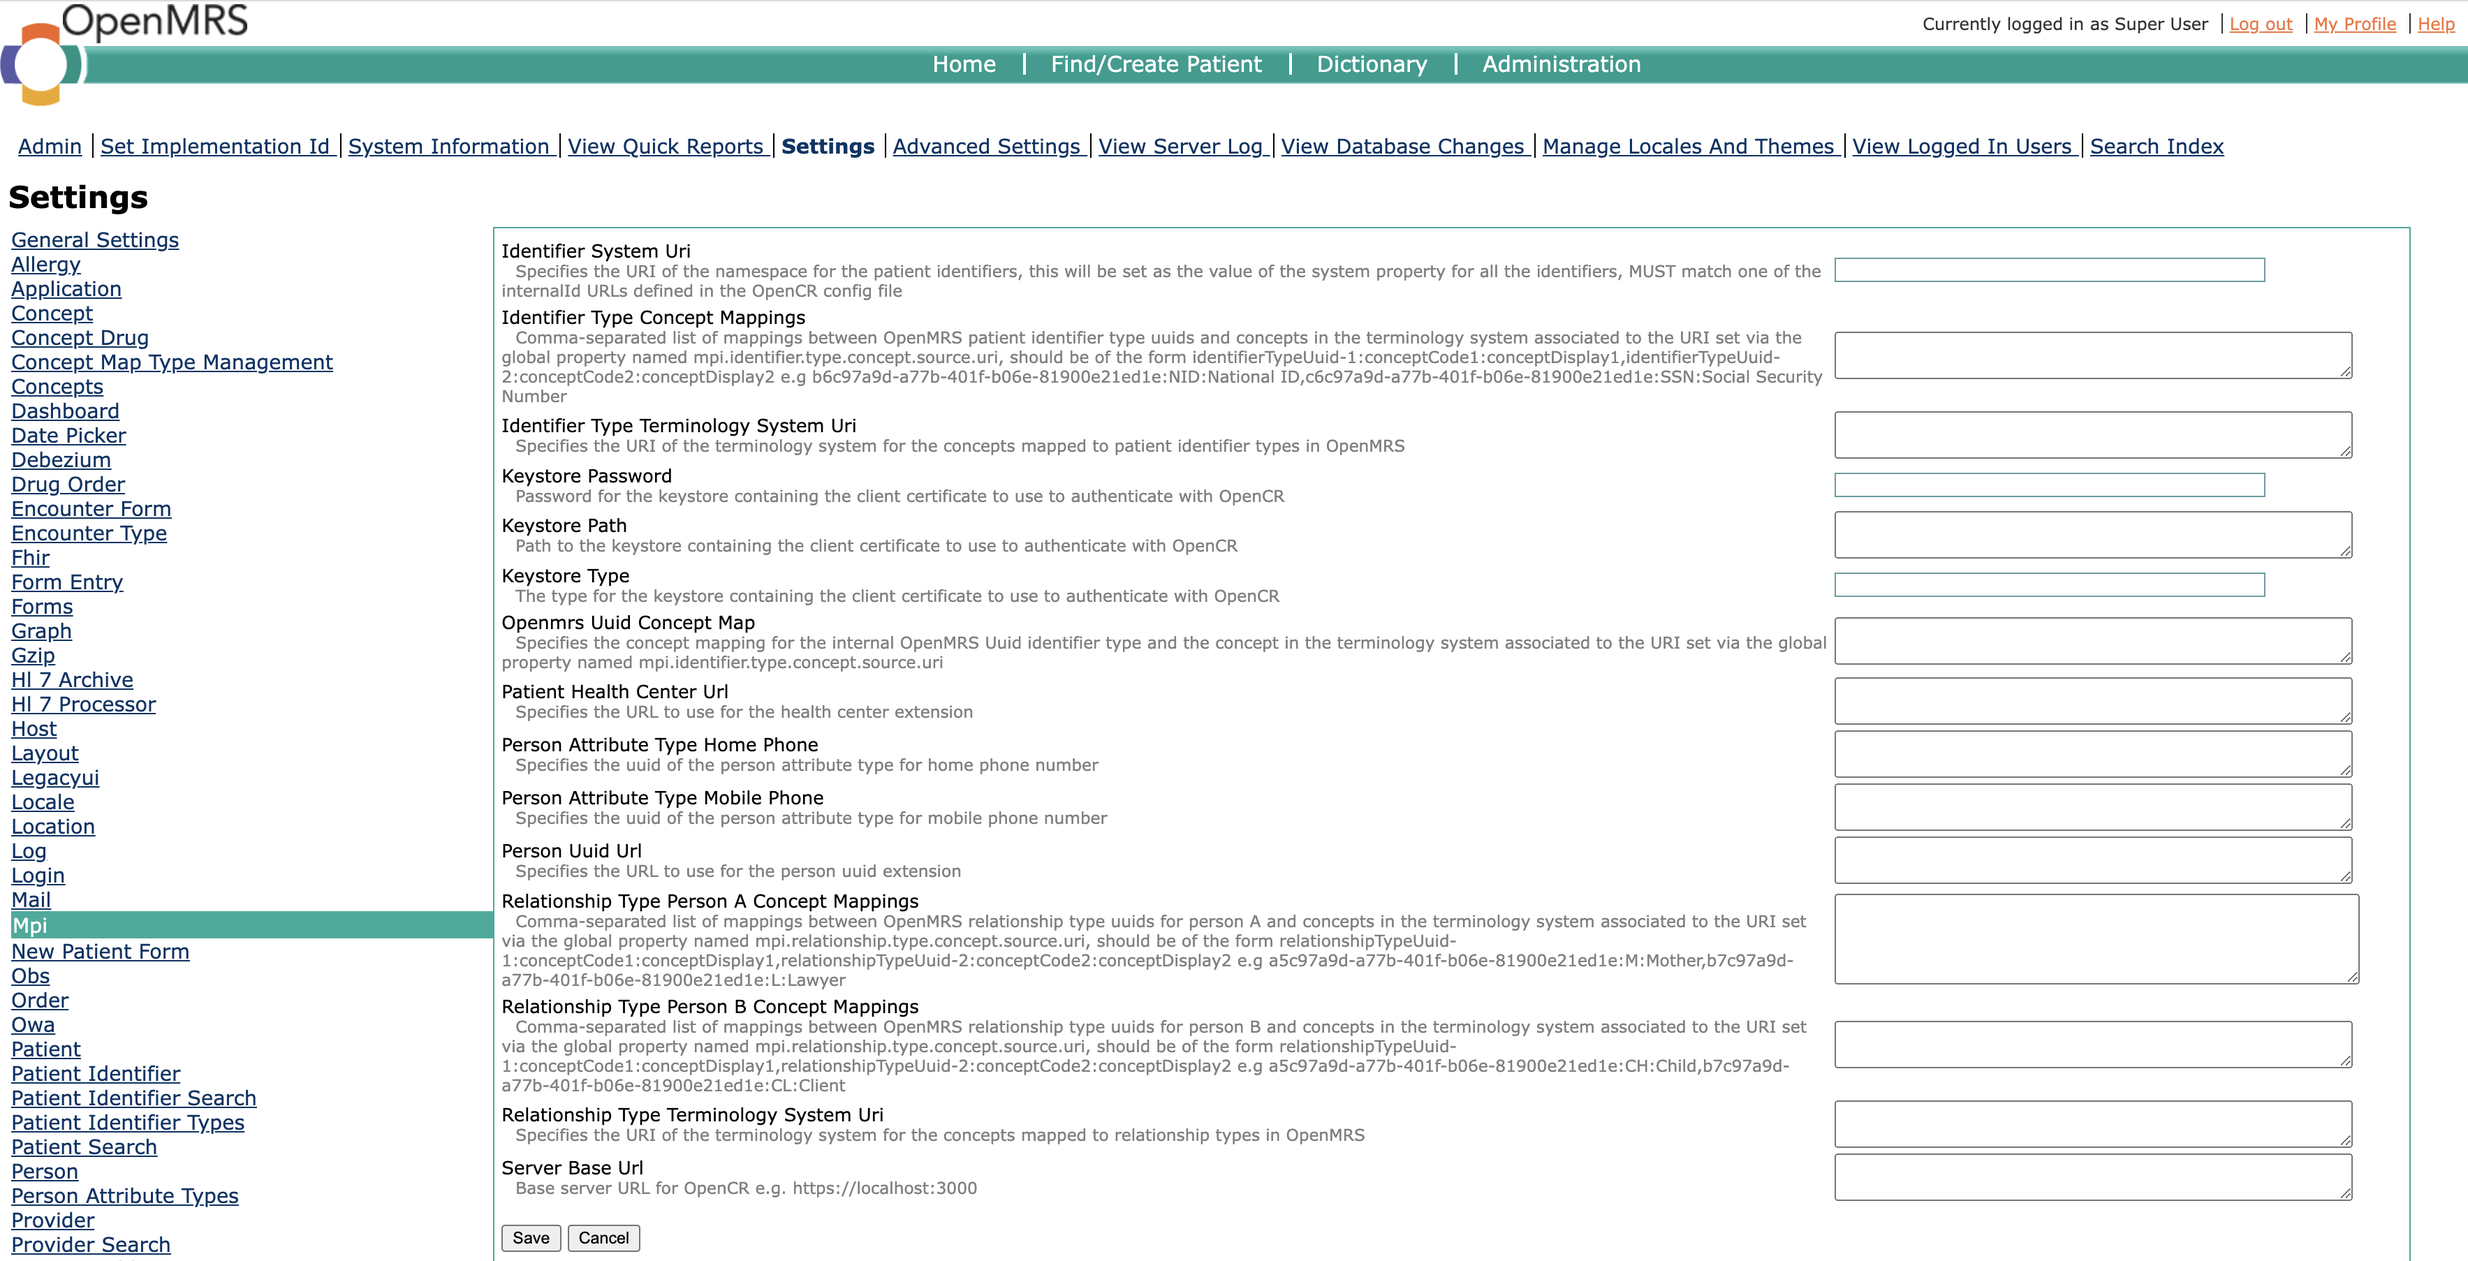
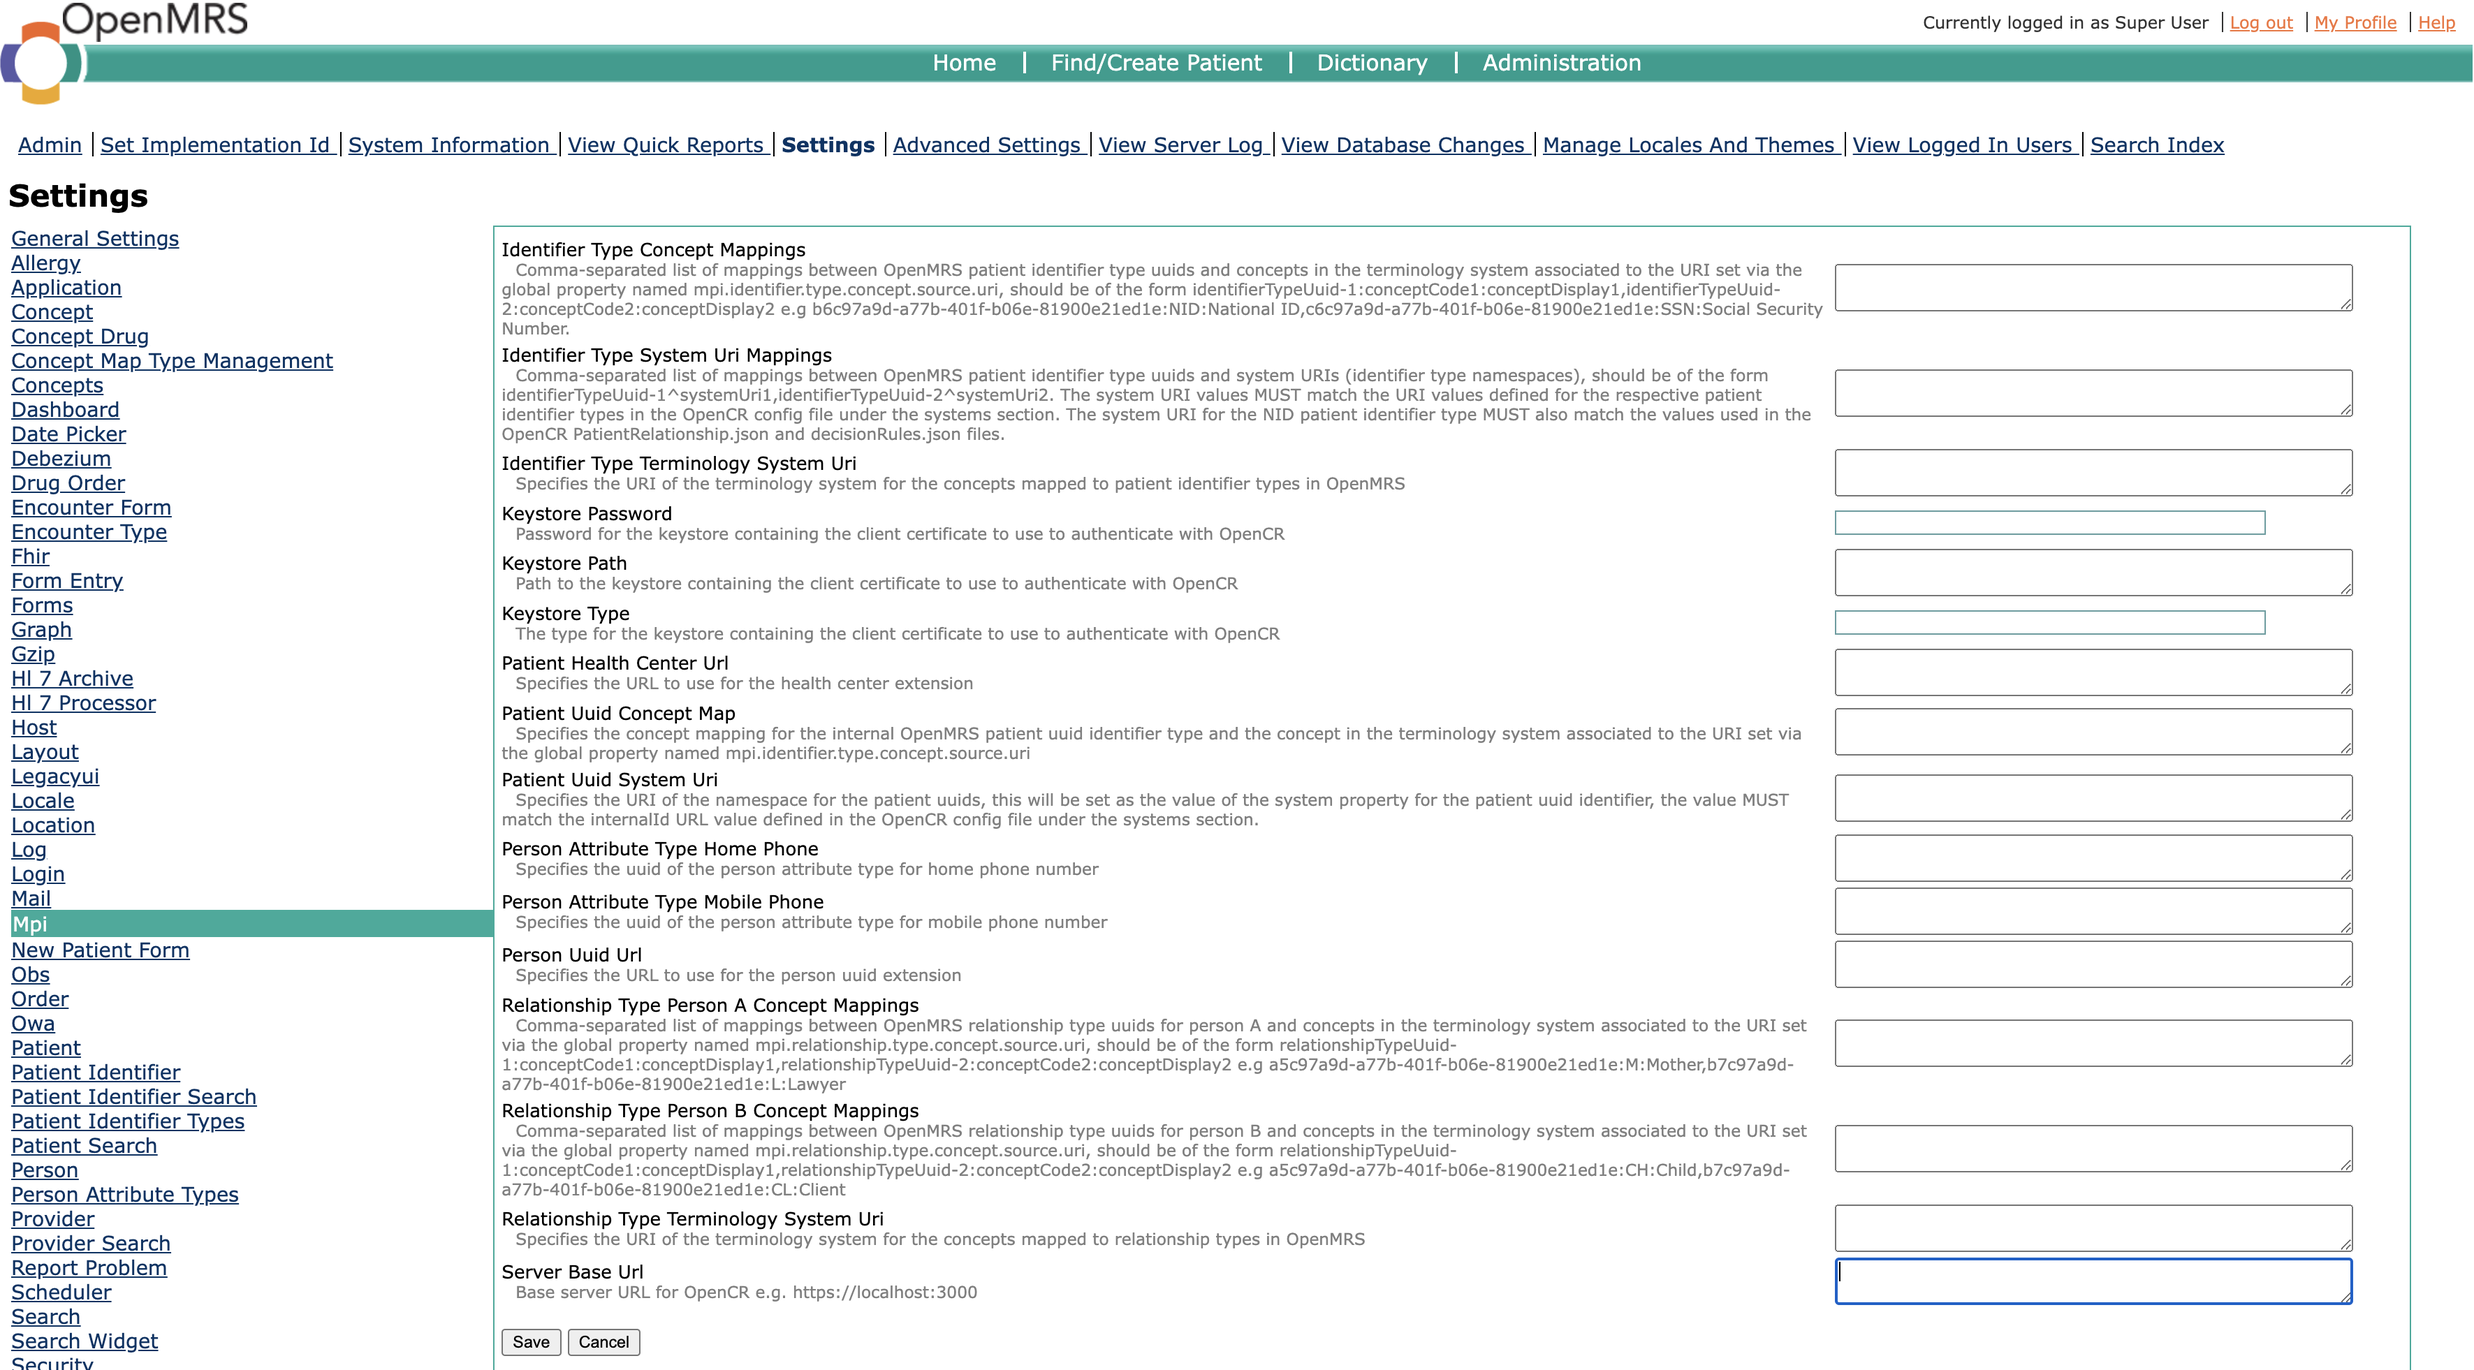
EC-153 - different system URIs for each identifier type

diff --git a/api/src/test/java/org/openmrs/module/fgh/mpi/FhirUtilsTest.java b/api/src/test/java/org/openmrs/module/fgh/mpi/FhirUtilsTest.java
@@ -44,9 +44,9 @@ import static org.openmrs.module.fgh.mpi.MpiConstants.GENDER_MALE;
 import static org.openmrs.module.fgh.mpi.MpiConstants.GENDER_OTHER;
 import static org.openmrs.module.fgh.mpi.MpiConstants.GENDER_UNKNOWN;
 import static org.openmrs.module.fgh.mpi.MpiConstants.GP_HEALTH_CENTER_EXT_URL;
-import static org.openmrs.module.fgh.mpi.MpiConstants.GP_IDENTIFIER_SYSTEM;
 import static org.openmrs.module.fgh.mpi.MpiConstants.GP_IDENTIFIER_TYPE_CONCEPT_MAP;
 import static org.openmrs.module.fgh.mpi.MpiConstants.GP_IDENTIFIER_TYPE_SYSTEM;
+import static org.openmrs.module.fgh.mpi.MpiConstants.GP_ID_TYPE_SYSTEM_MAP;
 import static org.openmrs.module.fgh.mpi.MpiConstants.GP_OPENMRS_UUID_CONCEPT_MAP;
 import static org.openmrs.module.fgh.mpi.MpiConstants.GP_PERSON_UUID_EXT_URL;
 import static org.openmrs.module.fgh.mpi.MpiConstants.GP_PHONE_HOME;
@@ -54,6 +54,7 @@ import static org.openmrs.module.fgh.mpi.MpiConstants.GP_PHONE_MOBILE;
 import static org.openmrs.module.fgh.mpi.MpiConstants.GP_RELATIONSHIP_TYPE_CONCEPT_MAP_A;
 import static org.openmrs.module.fgh.mpi.MpiConstants.GP_RELATIONSHIP_TYPE_CONCEPT_MAP_B;
 import static org.openmrs.module.fgh.mpi.MpiConstants.GP_RELATIONSHIP_TYPE_SYSTEM;
+import static org.openmrs.module.fgh.mpi.MpiConstants.GP_UUID_SYSTEM;
 import static org.openmrs.module.fgh.mpi.MpiConstants.HEALTH_CENTER_ATTRIB_TYPE_UUID;
 import static org.openmrs.module.fgh.mpi.MpiConstants.IDENTIFIER;
 import static org.openmrs.module.fgh.mpi.MpiConstants.NAME;
@@ -105,7 +106,7 @@ public class FhirUtilsTest {
 	
 	private static final String ID_TYPE_TERMINOLOGY_SYSTEM = "http://test.id.type.com";
 	
-	private static final String ID_SYSTEM = "http://test.id.com";
+	private static final String UUID_SYSTEM = "http://test.openmrs.id/uuid";
 	
 	private static final String RELATIONSHIP_TERMINOLOGY_SYSTEM = "http://test.relationship.type.com";
 	
@@ -129,6 +130,8 @@ public class FhirUtilsTest {
 		Whitebox.setInternalState(FhirUtils.class, "personUuidExtUrl", (Object) null);
 		Whitebox.setInternalState(FhirUtils.class, "relationshipTypeSystem", (Object) null);
 		Whitebox.setInternalState(FhirUtils.class, "idTypeSystem", (Object) null);
+		Whitebox.setInternalState(FhirUtils.class, "idSystemMap", (Object) null);
+		Whitebox.setInternalState(FhirUtils.class, "openmrsUuidSystem", (Object) null);
 		Whitebox.setInternalState(FhirUtils.class, "uuidRelationshipTypePersonAConceptMap", (Object) null);
 		Whitebox.setInternalState(FhirUtils.class, "uuidRelationshipTypePersonBConceptMap", (Object) null);
 		Whitebox.setInternalState(FhirUtils.class, "openmrsUuidCode", (Object) null);
@@ -141,7 +144,7 @@ public class FhirUtilsTest {
 		when(MpiUtils.getGlobalPropertyValue(GP_PHONE_HOME)).thenReturn("test-home-uuid");
 		when(mockPersonService.getPersonAttributeTypeByUuid(anyString())).thenReturn(new PersonAttributeType(0));
 		when(MpiUtils.getGlobalPropertyValue(GP_IDENTIFIER_TYPE_SYSTEM)).thenReturn(ID_TYPE_TERMINOLOGY_SYSTEM);
-		when(MpiUtils.getGlobalPropertyValue(GP_IDENTIFIER_SYSTEM)).thenReturn(ID_SYSTEM);
+		when(MpiUtils.getGlobalPropertyValue(GP_UUID_SYSTEM)).thenReturn(UUID_SYSTEM);
 		when(MpiUtils.getGlobalPropertyValue(GP_OPENMRS_UUID_CONCEPT_MAP))
 		        .thenReturn(OPENMRS_UUID_CODE + ":" + OPENMRS_UUID_DISPLAY);
 		when(MpiUtils.getGlobalPropertyValue(GP_HEALTH_CENTER_EXT_URL)).thenReturn(HC_EXT_URL);
@@ -163,6 +166,7 @@ public class FhirUtilsTest {
 		final String idUuid1 = "id-uuid-1";
 		final String idTypeCode1 = "id-type-code-1";
 		final String idTypeDisplay1 = "id-type-display-1";
+		final String idTypeSystem1 = "id-type-system-1";
 		List<Object> id1 = asList(identifier1, idTypeUuid1, idUuid1);
 		final String identifier2 = "qwerty";
 		final String idTypeName2 = "id-type-name-2";
@@ -170,11 +174,15 @@ public class FhirUtilsTest {
 		final String idUuid2 = "id-uuid-2";
 		final String idTypeCode2 = "id-type-code-2";
 		final String idTypeDisplay2 = "id-type-display-2";
+		final String idTypeSystem2 = "id-type-system-2";
 		List<Object> id2 = asList(identifier2, idTypeUuid2, idUuid2);
 		List<List<Object>> ids = asList(id1, id2);
 		final String idType1Map = idTypeUuid1 + ":" + idTypeCode1 + ":" + idTypeDisplay1;
 		final String idType2Map = idTypeUuid2 + ":" + idTypeCode2 + ":" + idTypeDisplay2;
+		final String idType1SystemMap = idTypeUuid1 + "^" + idTypeSystem1;
+		final String idType2SystemMap = idTypeUuid2 + "^" + idTypeSystem2;
 		when(MpiUtils.getGlobalPropertyValue(GP_IDENTIFIER_TYPE_CONCEPT_MAP)).thenReturn(idType1Map + "," + idType2Map);
+		when(MpiUtils.getGlobalPropertyValue(GP_ID_TYPE_SYSTEM_MAP)).thenReturn(idType1SystemMap + "," + idType2SystemMap);
 		PatientIdentifierType idType1 = new PatientIdentifierType();
 		idType1.setName(idTypeName1);
 		when(mockPatientService.getPatientIdentifierTypeByUuid(idTypeUuid1)).thenReturn(idType1);
@@ -278,20 +286,20 @@ public class FhirUtilsTest {
 		
 		List<Map> resourceIds = (List) resource.get(MpiConstants.FIELD_IDENTIFIER);
 		assertEquals(3, resourceIds.size());
-		assertEquals(ID_SYSTEM, resourceIds.get(0).get(FIELD_SYSTEM));
+		assertEquals(UUID_SYSTEM, resourceIds.get(0).get(FIELD_SYSTEM));
 		assertEquals(patientUuid, resourceIds.get(0).get(MpiConstants.FIELD_VALUE));
 		Map uuidCoding = (Map) ((List) ((Map) resourceIds.get(0).get(FIELD_TYPE)).get(FIELD_CODING)).get(0);
 		assertEquals(ID_TYPE_TERMINOLOGY_SYSTEM, uuidCoding.get(FIELD_SYSTEM));
 		assertEquals(OPENMRS_UUID_CODE, uuidCoding.get(FIELD_CODE));
 		assertEquals(OPENMRS_UUID_DISPLAY, uuidCoding.get(FIELD_DISPLAY));
-		assertEquals(ID_SYSTEM, resourceIds.get(1).get(MpiConstants.FIELD_SYSTEM));
+		assertEquals(idTypeSystem1, resourceIds.get(1).get(MpiConstants.FIELD_SYSTEM));
 		assertEquals(identifier1, resourceIds.get(1).get(MpiConstants.FIELD_VALUE));
 		assertEquals(idUuid1, resourceIds.get(1).get(FIELD_ID));
 		Map idType1Coding = (Map) ((List) ((Map) resourceIds.get(1).get(FIELD_TYPE)).get(FIELD_CODING)).get(0);
 		assertEquals(ID_TYPE_TERMINOLOGY_SYSTEM, idType1Coding.get(FIELD_SYSTEM));
 		assertEquals(idTypeCode1, idType1Coding.get(FIELD_CODE));
 		assertEquals(idTypeDisplay1, idType1Coding.get(FIELD_DISPLAY));
-		assertEquals(ID_SYSTEM, resourceIds.get(2).get(MpiConstants.FIELD_SYSTEM));
+		assertEquals(idTypeSystem2, resourceIds.get(2).get(MpiConstants.FIELD_SYSTEM));
 		assertEquals(identifier2, resourceIds.get(2).get(MpiConstants.FIELD_VALUE));
 		assertEquals(idUuid2, resourceIds.get(2).get(FIELD_ID));
 		Map idType2Coding = (Map) ((List) ((Map) resourceIds.get(2).get(FIELD_TYPE)).get(FIELD_CODING)).get(0);
@@ -440,12 +448,14 @@ public class FhirUtilsTest {
 		final String idUuid = "id-uuid";
 		final String idTypeCode = "id-type-code";
 		final String idTypeDisplay = "id-type-display";
+		final String idTypeSystem = "id-type-system";
 		List<List<Object>> ids = asList(asList(identifier, idTypeUuid, idUuid));
 		when(executeQuery(FhirUtils.ID_QUERY.replace(ID_PLACEHOLDER, patientId))).thenReturn(ids);
 		Map<String, Object> mpiPatient = singletonMap(IDENTIFIER, asList(null, null, null, null));
 		final String idTypeMap = idTypeUuid + ":" + idTypeCode + ":" + idTypeDisplay;
 		when(MpiUtils.getGlobalPropertyValue(GP_IDENTIFIER_TYPE_CONCEPT_MAP)).thenReturn(idTypeMap);
 		when(mockPatientService.getPatientIdentifierTypeByUuid(idTypeUuid)).thenReturn(new PatientIdentifierType());
+		when(MpiUtils.getGlobalPropertyValue(GP_ID_TYPE_SYSTEM_MAP)).thenReturn(idTypeUuid + "^" + idTypeSystem);
 		
 		Map<String, Object> res = FhirUtils.buildPatient(patientId, false, personDetails, mpiPatient);
 		

diff --git a/api/src/main/java/org/openmrs/module/fgh/mpi/FhirUtils.java b/api/src/main/java/org/openmrs/module/fgh/mpi/FhirUtils.java
@@ -25,14 +25,15 @@ import static org.openmrs.module.fgh.mpi.MpiConstants.FIELD_VALUE;
 import static org.openmrs.module.fgh.mpi.MpiConstants.FIELD_VALUE_STR;
 import static org.openmrs.module.fgh.mpi.MpiConstants.FIELD_VALUE_UUID;
 import static org.openmrs.module.fgh.mpi.MpiConstants.GP_HEALTH_CENTER_EXT_URL;
-import static org.openmrs.module.fgh.mpi.MpiConstants.GP_IDENTIFIER_SYSTEM;
 import static org.openmrs.module.fgh.mpi.MpiConstants.GP_IDENTIFIER_TYPE_CONCEPT_MAP;
 import static org.openmrs.module.fgh.mpi.MpiConstants.GP_IDENTIFIER_TYPE_SYSTEM;
+import static org.openmrs.module.fgh.mpi.MpiConstants.GP_ID_TYPE_SYSTEM_MAP;
 import static org.openmrs.module.fgh.mpi.MpiConstants.GP_OPENMRS_UUID_CONCEPT_MAP;
 import static org.openmrs.module.fgh.mpi.MpiConstants.GP_PERSON_UUID_EXT_URL;
 import static org.openmrs.module.fgh.mpi.MpiConstants.GP_RELATIONSHIP_TYPE_CONCEPT_MAP_A;
 import static org.openmrs.module.fgh.mpi.MpiConstants.GP_RELATIONSHIP_TYPE_CONCEPT_MAP_B;
 import static org.openmrs.module.fgh.mpi.MpiConstants.GP_RELATIONSHIP_TYPE_SYSTEM;
+import static org.openmrs.module.fgh.mpi.MpiConstants.GP_UUID_SYSTEM;
 import static org.openmrs.module.fgh.mpi.MpiConstants.HEALTH_CENTER_ATTRIB_TYPE_UUID;
 import static org.openmrs.module.fgh.mpi.MpiConstants.IDENTIFIER;
 import static org.openmrs.module.fgh.mpi.MpiConstants.NAME;
@@ -98,7 +99,9 @@ public class FhirUtils {
 	
 	private static String idTypeSystem;
 	
-	private static String idSystem;
+	private static String openmrsUuidSystem;
+	
+	private static Map<String, String> idSystemMap;
 	
 	private static String openmrsUuidCode;
 	
@@ -190,7 +193,7 @@ public class FhirUtils {
 		sourceIdTypeResource.put(FIELD_CODING, singletonList(codingResource));
 		sourceIdTypeResource.put(FIELD_TEXT, MpiConstants.OPENMRS_UUID);
 		Map<String, Object> sourceIdRes = new HashMap();
-		sourceIdRes.put(FIELD_SYSTEM, idSystem);
+		sourceIdRes.put(FIELD_SYSTEM, openmrsUuidSystem);
 		sourceIdRes.put(FIELD_VALUE, person.get(4));
 		sourceIdRes.put(FIELD_TYPE, sourceIdTypeResource);
 		List<Map<String, Object>> identifiers = new ArrayList();
@@ -200,10 +203,14 @@ public class FhirUtils {
 		idRows.stream().forEach(idRow -> {
 			Map<String, Object> idResource = new HashMap();
 			idResource.put(FIELD_ID, idRow.get(2));
-			idResource.put(FIELD_SYSTEM, idSystem);
+			final String identifierTypeUuid = idRow.get(1).toString();
+			if (StringUtils.isBlank(idSystemMap.get(identifierTypeUuid))) {
+				throw new APIException("No id system uri defined for identifier type with uuid: " + identifierTypeUuid);
+			}
+			
+			idResource.put(FIELD_SYSTEM, idSystemMap.get(identifierTypeUuid));
 			idResource.put(FIELD_VALUE, idRow.get(0));
 			
-			final String identifierTypeUuid = idRow.get(1).toString();
 			TypeConcept concept = uuidIdentifierTypeMap.get(identifierTypeUuid);
 			if (concept == null) {
 				throw new APIException("No concept mapped to patient identifier type with uuid: " + identifierTypeUuid);
@@ -613,8 +620,8 @@ public class FhirUtils {
 			idTypeSystem = MpiUtils.getGlobalPropertyValue(GP_IDENTIFIER_TYPE_SYSTEM);
 		}
 		
-		if (idSystem == null) {
-			idSystem = MpiUtils.getGlobalPropertyValue(GP_IDENTIFIER_SYSTEM);
+		if (openmrsUuidSystem == null) {
+			openmrsUuidSystem = MpiUtils.getGlobalPropertyValue(GP_UUID_SYSTEM);
 		}
 		
 		if (healthCenterExtUrl == null) {
@@ -634,6 +641,17 @@ public class FhirUtils {
 			String[] mapDetails = openmrsUuidConceptMap.trim().split(":");
 			openmrsUuidCode = mapDetails[0];
 			openmrsUuidDisplay = mapDetails[1];
+		}
+		
+		if (idSystemMap == null) {
+			idSystemMap = new HashMap();
+			String maps = MpiUtils.getGlobalPropertyValue(GP_ID_TYPE_SYSTEM_MAP);
+			if (StringUtils.isNotBlank(maps)) {
+				for (String map : maps.trim().split(",")) {
+					String[] details = map.trim().split("\\^");
+					idSystemMap.put(details[0].trim(), details[1].trim());
+				}
+			}
 		}
 		
 		if (uuidIdentifierTypeMap == null) {

diff --git a/api/src/main/java/org/openmrs/module/fgh/mpi/MpiHttpClient.java b/api/src/main/java/org/openmrs/module/fgh/mpi/MpiHttpClient.java
@@ -1,10 +1,10 @@
 package org.openmrs.module.fgh.mpi;
 
-import static org.openmrs.module.fgh.mpi.MpiConstants.GP_IDENTIFIER_SYSTEM;
 import static org.openmrs.module.fgh.mpi.MpiConstants.GP_KEYSTORE_PASS;
 import static org.openmrs.module.fgh.mpi.MpiConstants.GP_KEYSTORE_PATH;
 import static org.openmrs.module.fgh.mpi.MpiConstants.GP_KEYSTORE_TYPE;
 import static org.openmrs.module.fgh.mpi.MpiConstants.GP_MPI_BASE_URL;
+import static org.openmrs.module.fgh.mpi.MpiConstants.GP_UUID_SYSTEM;
 import static org.openmrs.module.fgh.mpi.MpiConstants.REQ_PARAM_SOURCE_ID;
 import static org.openmrs.module.fgh.mpi.MpiConstants.RESPONSE_FIELD_PARAM;
 import static org.openmrs.module.fgh.mpi.MpiConstants.RESPONSE_FIELD_VALUE_REF;
@@ -50,7 +50,7 @@ public class MpiHttpClient {
 	
 	private static final String SUBPATH_PATIENT = SUBPATH_FHIR + "/Patient";
 	
-	private static String idSystem;
+	private static String openmrsUuidSystem;
 	
 	private static final ObjectMapper MAPPER = new ObjectMapper();
 	
@@ -68,13 +68,13 @@ public class MpiHttpClient {
 			log.debug("Searching for patient from MPI with OpenMRS uuid: " + patientUuid);
 		}
 		
-		if (idSystem == null) {
+		if (openmrsUuidSystem == null) {
 			synchronized (MpiHttpClient.class) {
-				idSystem = MpiUtils.getGlobalPropertyValue(GP_IDENTIFIER_SYSTEM);
+				openmrsUuidSystem = MpiUtils.getGlobalPropertyValue(GP_UUID_SYSTEM);
 			}
 		}
 		
-		String query = REQ_PARAM_SOURCE_ID + "=" + idSystem + "|" + patientUuid;
+		String query = REQ_PARAM_SOURCE_ID + "=" + openmrsUuidSystem + "|" + patientUuid;
 		Map<String, Object> pixResponse = submitRequest(SUBPATH_PATIENT + "/$ihe-pix?" + query, null, Map.class);
 		List<Map<String, Object>> ids = (List<Map<String, Object>>) pixResponse.get(RESPONSE_FIELD_PARAM);
 		if (ids.isEmpty()) {

diff --git a/api/src/main/java/org/openmrs/module/fgh/mpi/MpiConstants.java b/api/src/main/java/org/openmrs/module/fgh/mpi/MpiConstants.java
@@ -30,7 +30,9 @@ public class MpiConstants {
 	
 	public final static String GP_PHONE_HOME = MODULE_ID + ".person.attribute.type.home.phone";
 	
-	public final static String GP_IDENTIFIER_SYSTEM = MODULE_ID + ".identifier.system.uri";
+	public final static String GP_UUID_SYSTEM = MODULE_ID + ".patient.uuid.system.uri";
+	
+	public final static String GP_ID_TYPE_SYSTEM_MAP = MODULE_ID + ".identifier.type.system.uri.mappings";
 	
 	public final static String GP_IDENTIFIER_TYPE_SYSTEM = MODULE_ID + ".identifier.type.terminology.system.uri";
 	
@@ -44,7 +46,7 @@ public class MpiConstants {
 	public final static String GP_RELATIONSHIP_TYPE_CONCEPT_MAP_B = MODULE_ID
 	        + ".relationship.type.personB.concept.mappings";
 	
-	public final static String GP_OPENMRS_UUID_CONCEPT_MAP = MODULE_ID + ".openmrs.uuid.concept.map";
+	public final static String GP_OPENMRS_UUID_CONCEPT_MAP = MODULE_ID + ".patient.uuid.concept.map";
 	
 	public final static String OPENMRS_UUID = "OpenMRS Internal UUID";
 	
